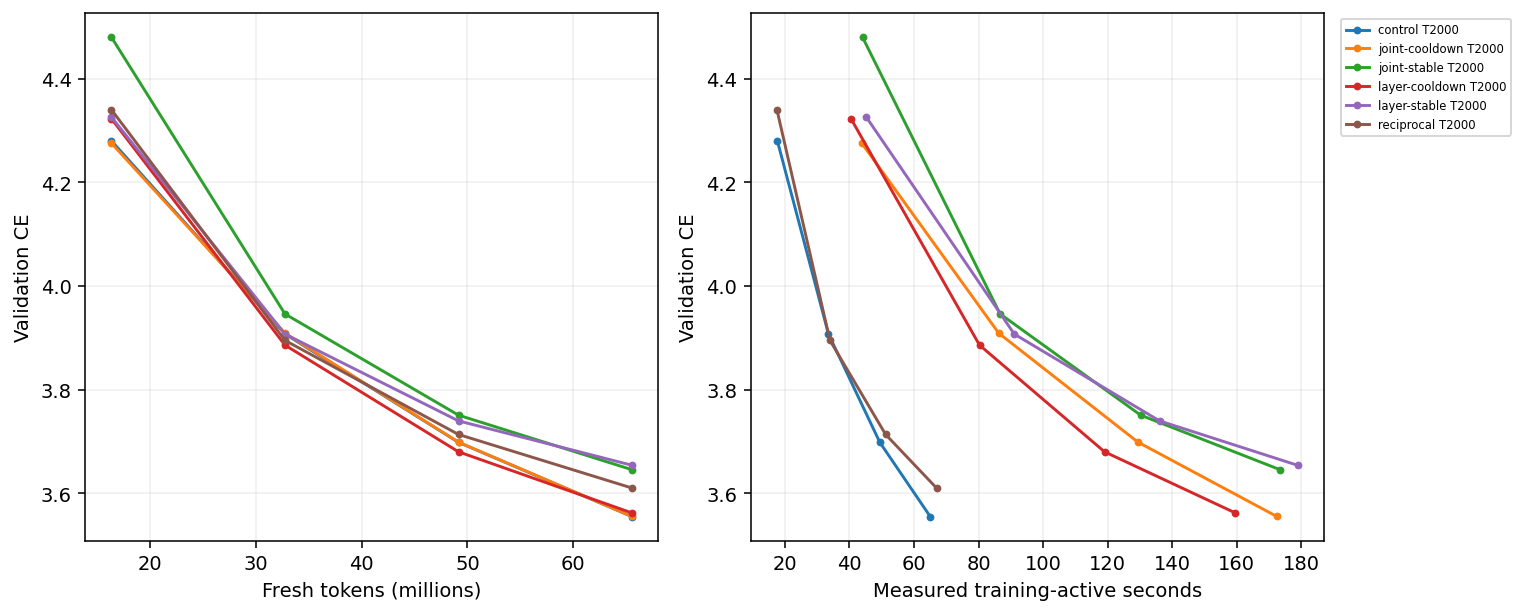
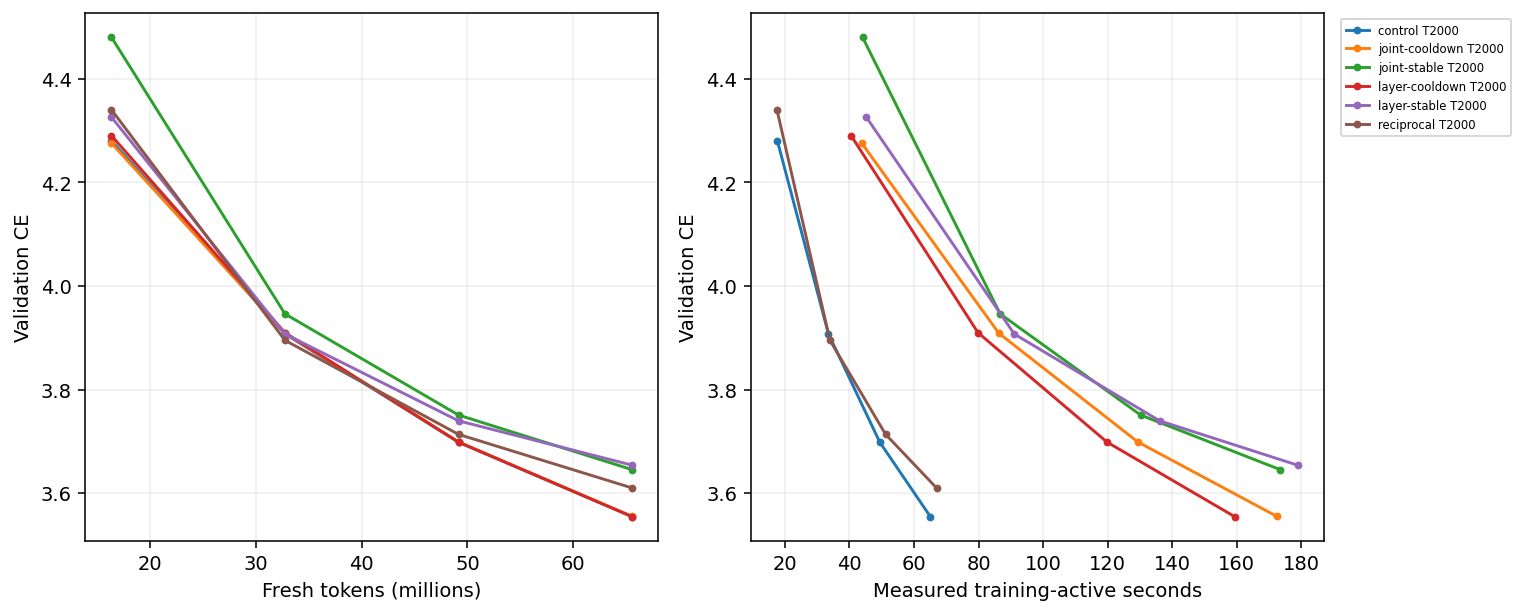
Update live Muon experiment results

diff --git a/research/unnormalized_muon/RESULTS.md b/research/unnormalized_muon/RESULTS.md
@@ -91,6 +91,8 @@ One B300 per job. CE is token cross-entropy (nats); lower is better. Rows with d
 | um-lens-refine-joint-cooldown-1 | Clean GapWD joint uniform v2 c-in-Q quadratic cap0.01/cooldown fixed_lambda=0.18375 WD:standard(0) | 2000 | 0 | 0.04 | 3.555091 | 1.077761 | — | 256.27 |
 | um-lens-refine-joint-stable-0 | Clean GapWD joint uniform v2 c-in-Q quadratic cap0.0025/stable fixed_lambda=0.18375 WD:standard(0) | 2000 | 0 | 0.04 | 3.645341 | 1.105051 | — | 257.49 |
 | um-lens-refine-joint-stable-1 | Clean GapWD joint uniform v2 c-in-Q quadratic cap0.01/stable fixed_lambda=0.18375 WD:standard(0) | 2000 | 0 | 0.04 | 3.727101 | 1.129865 | — | 262.87 |
+| um-lens-refine-layer-cooldown-0 | Clean GapWD layer uniform v2 c-in-Q armijo cap0.0025/cooldown fixed_lambda=0.18375 WD:standard(0) | 2000 | 0 | 0.04 | 3.617586 | 1.096649 | — | 227.00 |
+| um-lens-refine-layer-cooldown-1 | Clean GapWD layer uniform v2 c-in-Q armijo cap0.01/cooldown fixed_lambda=0.18375 WD:standard(0) | 2000 | 0 | 0.04 | 3.554595 | 1.077588 | — | 222.00 |
 | um-screen-00-0-native-lr0p005 | Native cooldown | 2000 | 0 | 0.005 | 3.734536 | 1.132046 | — | 145.49 |
 | um-screen-00-1-scaled-lr0p0002 | Unnormalized cooldown | 2000 | 0 | 0.0002 | 4.818060 | 1.460343 | — | 153.42 |
 | um-screen-00-2-constant-lr0p0002 | Unnormalized constant | 2000 | 0 | 0.0002 | 4.581043 | 1.388601 | — | 151.98 |
@@ -146,7 +148,7 @@ One B300 per job. CE is token cross-entropy (nats); lower is better. Rows with d
 
 Review of um-fw-diagnostic-001: Compiled training f0 compared against functional candidate losses; vanishing-step mismatch2-4e-5 exceeded tolerance, leading to curvature1e186 and45 skipped steps. Replaced by paired functional reference and candidates; retain all645 measured forwards and GPUcost.
 
-Conservative charged/reserved total: 11.1369 / 30 B300 GPU-hours. Includes prior smoke/failed attempts and current maximum-duration reservations. Six-slot central queue; one B300 per run.
+Conservative charged/reserved total: 10.5150 / 30 B300 GPU-hours. Includes prior smoke/failed attempts and current maximum-duration reservations. Six-slot central queue; one B300 per run.
 
 CLEAN geometry disables row equilibration and NorMuon. Original clean runs use zero matrix decay; new WD runs explicitly label standard or cautious decay and their CLI coefficient. Same five Polar Express steps and Frobenius correction; scale by the per-matrix nonnegative FP32 inner product of the native Nesterov input with the NS/Frobenius direction. Shape scaling occurs once outside the scalar. Legacy rows retain production extras and must be compared separately. Constant schedule changes only matrix LR; auxiliary schedules and momentum remain matched.
 

diff --git a/research/unnormalized_muon/FW_LENS_RESULTS.md b/research/unnormalized_muon/FW_LENS_RESULTS.md
@@ -41,6 +41,8 @@ Token-based schedule curves are descriptive. Independently scheduled equal-time 
 | um-lens-refine-joint-cooldown-1 | joint-cooldown | 2000 updates | 0 | 3.555091 | — | 172.412 | 6001 | 38.700 | 256.27 |
 | um-lens-refine-joint-stable-0 | joint-stable | 2000 updates | 0 | 3.645341 | — | 173.432 | 5995 | 39.220 | 257.49 |
 | um-lens-refine-joint-stable-1 | joint-stable | 2000 updates | 0 | 3.727101 | — | 176.259 | 6001 | 40.371 | 262.87 |
+| um-lens-refine-layer-cooldown-0 | layer-cooldown | 2000 updates | 0 | 3.617586 | — | 158.738 | 4000 | 31.476 | 227.00 |
+| um-lens-refine-layer-cooldown-1 | layer-cooldown | 2000 updates | 0 | 3.554595 | — | 159.333 | 4000 | 30.112 | 222.00 |
 
 ## Adaptive diagnostics and contraction
 
@@ -70,5 +72,7 @@ Contraction is the actual coefficient product_t(1-lambda*eta_l,t), represented i
 | um-lens-refine-joint-cooldown-1 | 2000/2000 | 0 | 0.0075921 | 0.0013951 | 0.01 | 2 | -2.507 to -2.507 | 0.39888 |
 | um-lens-refine-joint-stable-0 | 1996/2000 | 0 | 0.0025 | 0.00045937 | 0.04 | 2 | -0.9084 to -0.9084 | 0.287777 |
 | um-lens-refine-joint-stable-1 | 2000/2000 | 0 | 0.01 | 0.0018375 | 0.01 | 2 | -3.642 to -3.642 | 0.361899 |
+| um-lens-refine-layer-cooldown-0 | 2000/2000 | 0 | 0.0018953 | 0.00034826 | 1e-16 | 1 | -0.6265 to -0.6088 | 0.305577 |
+| um-lens-refine-layer-cooldown-1 | 2000/2000 | 0 | 0.0075885 | 0.0013944 | 1e-16 | 1 | -2.507 to -2.476 | 0.397119 |
 
 Curvature values in Armijo variants parameterize proposals; their acceptance is NOT a certificate of the quadratic upper model. Final spectral ratios are lambda*||W_l||op/c_l; native approximate NS output is not certified to have unit spectral norm. Initial/final iterate feasibility alone does not certify oracle accuracy. Cold two-second clock checks intentionally permit one-update overshoot; do not use them as quality endpoints.

diff --git a/research/unnormalized_muon/DETAILED_EVAL.md b/research/unnormalized_muon/DETAILED_EVAL.md
@@ -380,3 +380,15 @@ um-lens-refine-joint-stable-1: accepted 2000/2000; skipped nonpositive blocks 94
 
 Timing seconds: direction=54.074, reference=14.283, candidates=27.896, auxiliary=1.739.
 
+| um-lens-refine-layer-cooldown-0 | layer native | 0.1837499 | 2000 | 3.617586 | 4000 | 227.00 |
+
+um-lens-refine-layer-cooldown-0: accepted 2000/2000; skipped nonpositive blocks 188; median actual eta 0.00189529; median gamma 0.000348259; median L 1e-16; median trials 1; max measured spectral ratio lambda*||W||op=0.305577. Native approximate NS can violate the ideal unit-oracle premise; this is recorded, not hidden.
+
+Timing seconds: direction=56.684, reference=14.195, candidates=13.854, auxiliary=1.740.
+
+| um-lens-refine-layer-cooldown-1 | layer native | 0.1837499 | 2000 | 3.554595 | 4000 | 222.00 |
+
+um-lens-refine-layer-cooldown-1: accepted 2000/2000; skipped nonpositive blocks 94; median actual eta 0.00758846; median gamma 0.00139438; median L 1e-16; median trials 1; max measured spectral ratio lambda*||W||op=0.397119. Native approximate NS can violate the ideal unit-oracle premise; this is recorded, not hidden.
+
+Timing seconds: direction=56.742, reference=14.521, candidates=14.085, auxiliary=1.897.
+
